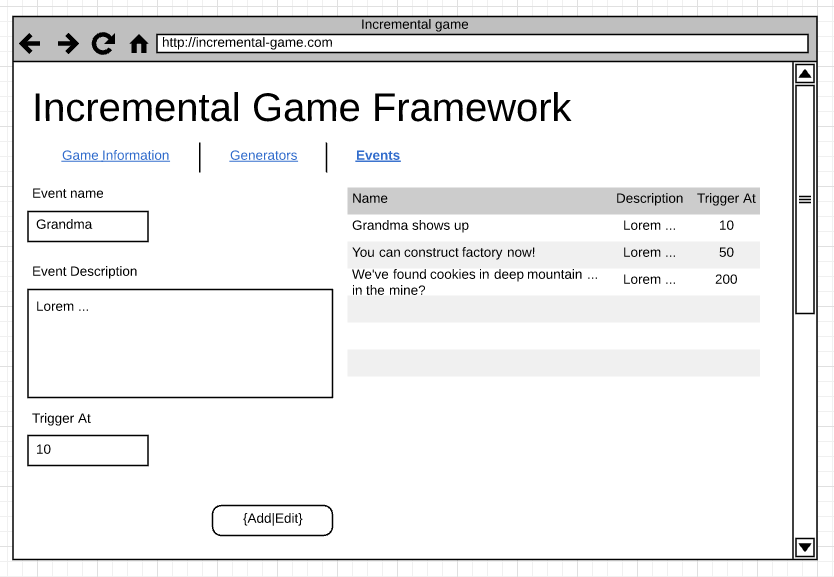
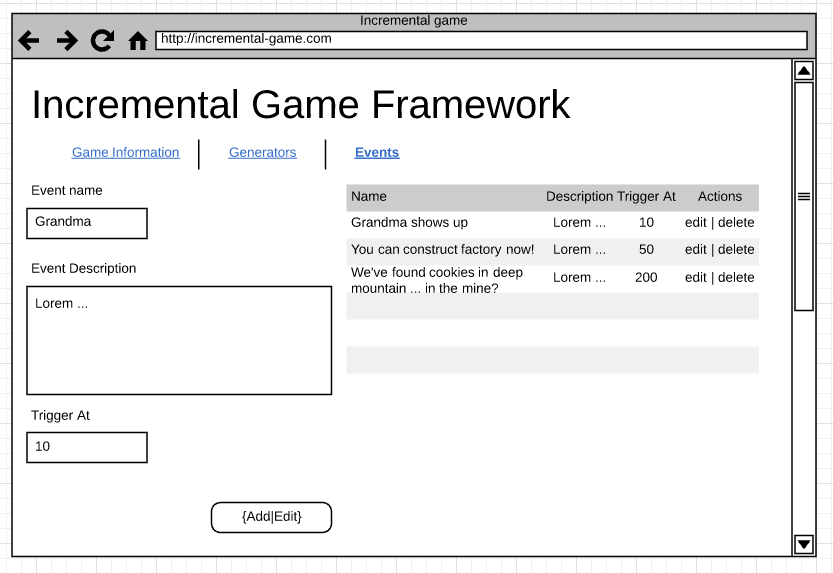
refactor: update lab4 and homework2 description

diff --git a/notes/labs/lab4.md b/notes/labs/lab4.md
@@ -10,6 +10,20 @@ Pull request should at least containing the following changed files:
 * `src/main/java/edu/csula/storage/servlet/EventsDAOImpl.java`
 * `app.css`
 
+## Common Q&A
+
+### I use Eclipse, and this lab requires Gradle. What do I do?
+
+Follow http://www.vogella.com/tutorials/EclipseGradle/article.html to install
+Eclipse Gradle plugin.
+
+### Why is the `Event.java` fields all final?
+
+`final` makes sure that the variable cannot be re-assigned through out the entire
+runtime. In general, it's better practice to keep variable final so you can write
+more predictable code. If you have to _mutate_ variable, I suggest you to
+reconstruct another object and assign the list index to this item instead.
+
 ## Descriptions
 
 In this lab, we will pick up what we implemented back in exercise-2 with the
@@ -29,7 +43,7 @@ And your mission is to create Java Servlets that:
 ## Get Started
 
 Download the starter code from 
-https://github.com/rcliao/cookie-clicker/releases/tag/lab4-1
+https://github.com/rcliao/cookie-clicker/releases/tag/lab4-2
 
 Once downloaded, you have a couple files you have to pay attention to:
 
@@ -85,9 +99,12 @@ Once you have downloaded the starter code, you want to start by looking at
 the `EventsDAOImpl.java` first to implement all functionalities inside in
 order to pass unit tests from `./gradlew check` command.
 
-Then, your next step is to fill in the blank under `AdminEventsServlet.java` to render HTML and handle transaction accordingly.
+Then, your next step is to fill in the blank under `AdminEventsServlet.java` to
+render HTML and handle transaction accordingly.
 
-Once you are done coding, you want to deploy the code to CS3 server following this article https://github.com/csula/cs3220-spring-2018/blob/master/notes/utils/cs3-deployment.md
+Once you are done coding, you want to deploy the code to CS3 server following
+this article
+https://github.com/csula/cs3220-spring-2018/blob/master/notes/utils/cs3-deployment.md
 
 ## Requirements
 
@@ -96,10 +113,11 @@ Once you are done coding, you want to deploy the code to CS3 server following th
 * User should be able to create event passing event name, description and trigger value
 * User should be able to see a list of events
 * User should be able to modify a single event
+* User should be able to delete a single event
 
 ### Technical
 
 * Application needs to be deployed to CS3 server and working
-* Application should store the event information in the application scope
+* Application should store the event information in the _application scope_
 * Application should display HTML with proper CSS (similar to what you have accomplished in exercise-2)
-* `./gradlew check` should pass
+* `./gradlew check` should pass all unit tests

diff --git a/notes/homeworks/homework2.md b/notes/homeworks/homework2.md
@@ -9,6 +9,7 @@ Pull request should at least containing the following changed files:
 * AuthenticationServlet.java
 * AdminGeneratorsServlet.java
 * GeneratorsDAOImpl.java
+* UsersDAOImpl.java
 * app.css
 
 ## Descriptions
@@ -17,7 +18,7 @@ In this lab, we will pick up what we implemented back in exercise-2 with the
 proper backend functionality. To get started with, we will implement the generators
 configuration page like below:
 
-![admin generators configuration page](../imgs/project/admin-generators.png)
+![Admin generators configuration page](../imgs/project/admin-generators.png)
 ![Admin Authentication Page](../imgs/project/user-authentication.png)
 
 And your mission is to create Java Servlets that:
@@ -30,12 +31,16 @@ And your mission is to create Java Servlets that:
 
 You should continue your code from lab 4 before except download additional two
 files under homework 2 release:
-https://github.com/rcliao/cookie-clicker/releases/tag/hw2
+https://github.com/rcliao/cookie-clicker/releases/tag/hw2-1
 
 The few files are:
 * `src/main/java/edu/csula/web/servlet/AuthenticationServlet.java`
 * `src/main/java/edu/csula/models/Generator.java`
+* `src/main/java/edu/csula/models/User.java`
+* `src/main/java/edu/csula/storage/UsersDAO.java`
+* `src/main/java/edu/csula/storage/servlet/UsersDAOImpl.java`
 * `src/test/java/edu/csula/storage/servlet/GeneratorsDAOImplTest.java`
+* `src/test/java/edu/csula/storage/servlet/UsersDAOImplTest.java`
 
 Once download these two files, add those two files to be under your lab 4.
 
@@ -47,6 +52,7 @@ and modify `GeneratorsDAOImpl.java` to fix the unit test.
 ### Functional
 
 * User shall login first prior to make any changes under `Admin*Servlet.java`
+* If user is not currently login and go to other pages, they should be _redirected_ back to the login page
 * User should be able to create event passing generator name, description, rate, base cost and unlock value
 * User should be able to see a list of generators
 * User should be able to modify a single generator
